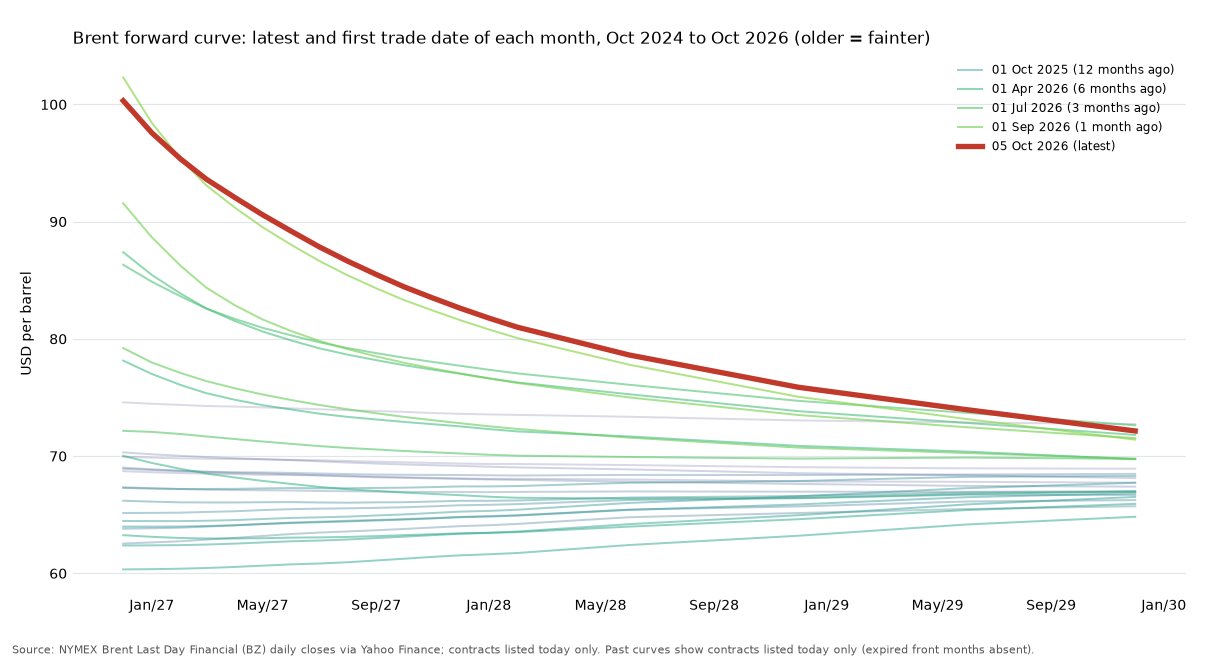
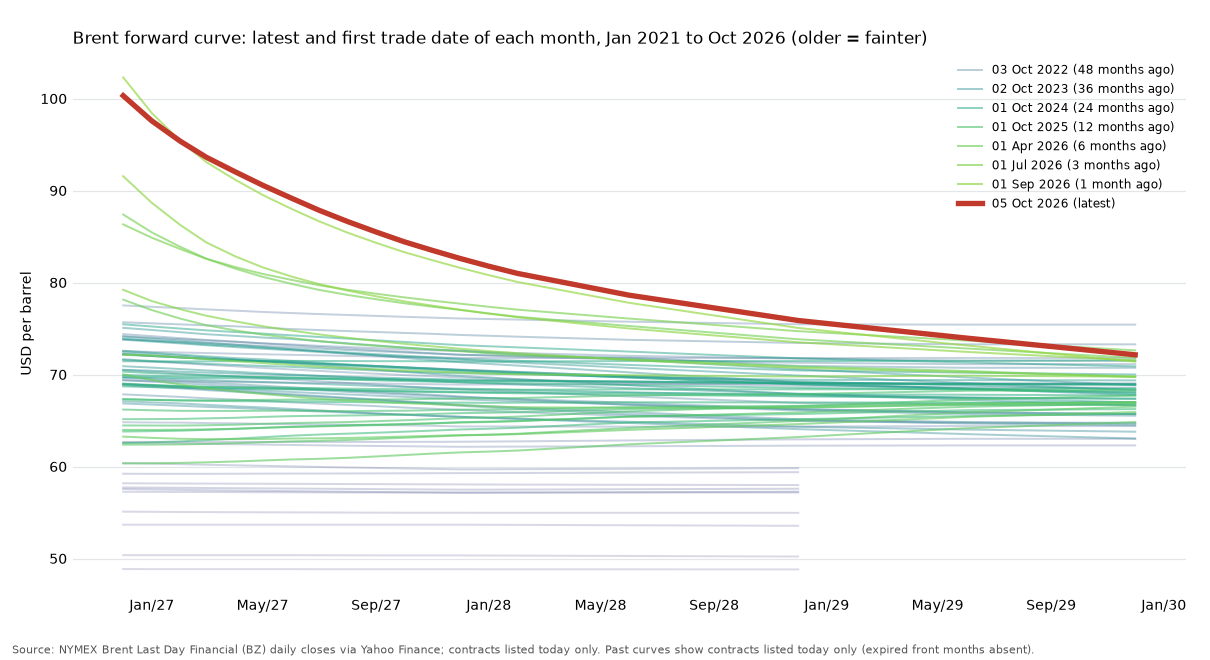
Brent forward curve GIF and history image: from Jan 2021 (drop 2018-2020)
Claude-Session: https://claude.ai/code/session_017JZ6NtiEGTPcCx8fG8R1Sb

diff --git a/americas/BRENT_FORWARD_CURVE_GIF.py b/americas/BRENT_FORWARD_CURVE_GIF.py
@@ -39,8 +39,10 @@ def main():
     sp.index = pd.to_datetime(sp.index)
     os.makedirs(OUTDIR, exist_ok=True)
     wk = cur.groupby(cur.index.to_period("W")).tail(1).index
-    frames = list(wk)
-    ymin, ymax = np.floor(cur.min().min() / 10) * 10 - 5, np.ceil(cur.max().max() / 10) * 10 + 5
+    START = pd.Timestamp("2021-01-01")   # owner: from 2021, not 2018-2020
+    frames = [d for d in wk if d >= START]
+    c21 = cur[cur.index >= START]
+    ymin, ymax = np.floor(c21.min().min() / 10) * 10 - 5, np.ceil(c21.max().max() / 10) * 10 + 5
     xl = (cur.columns.min() - pd.Timedelta(days=20), cur.columns.max() + pd.Timedelta(days=20))
     spread_col = "Dec 2026 less Dec 2027"
     n_c = cur.notna().sum(axis=1)
@@ -97,16 +99,16 @@ def main():
     fig.subplots_adjust(left=0.07, right=0.98, top=0.9, bottom=0.12)
     fig.savefig(os.path.join(OUTDIR, "brent_forward_curve.png"))
     plt.close(fig)
-    # PNG: history of curves, first trade date of each month (last 24 months), fading with age, latest bold
+    # PNG: history of curves, first trade date of each month (since Jan 2021), fading with age, latest bold
     last = cur.index.max()
-    win = cur[cur.index >= last - pd.DateOffset(months=24)]
+    win = cur[cur.index >= START]
     firsts = list(win.groupby(win.index.to_period("M")).head(1).index)
     firsts = [d for d in firsts if d != last]
     fig, ax = plt.subplots(figsize=(11, 6), dpi=110)
     style(ax)
     cmap = plt.get_cmap("viridis")
     lab = {}
-    for tgt, nm in ((1, "1 month ago"), (3, "3 months ago"), (6, "6 months ago"), (12, "12 months ago"), (24, "24 months ago")):
+    for tgt, nm in ((1, "1 month ago"), (3, "3 months ago"), (6, "6 months ago"), (12, "12 months ago"), (24, "24 months ago"), (36, "36 months ago"), (48, "48 months ago")):
         c_ = [d for d in firsts if d <= last - pd.DateOffset(months=tgt)]
         if c_:
             lab[c_[-1]] = nm

diff --git a/output/Python Scripts/BRENT_FORWARD_CURVE_GIF.py b/output/Python Scripts/BRENT_FORWARD_CURVE_GIF.py
@@ -39,8 +39,10 @@ def main():
     sp.index = pd.to_datetime(sp.index)
     os.makedirs(OUTDIR, exist_ok=True)
     wk = cur.groupby(cur.index.to_period("W")).tail(1).index
-    frames = list(wk)
-    ymin, ymax = np.floor(cur.min().min() / 10) * 10 - 5, np.ceil(cur.max().max() / 10) * 10 + 5
+    START = pd.Timestamp("2021-01-01")   # owner: from 2021, not 2018-2020
+    frames = [d for d in wk if d >= START]
+    c21 = cur[cur.index >= START]
+    ymin, ymax = np.floor(c21.min().min() / 10) * 10 - 5, np.ceil(c21.max().max() / 10) * 10 + 5
     xl = (cur.columns.min() - pd.Timedelta(days=20), cur.columns.max() + pd.Timedelta(days=20))
     spread_col = "Dec 2026 less Dec 2027"
     n_c = cur.notna().sum(axis=1)
@@ -97,16 +99,16 @@ def main():
     fig.subplots_adjust(left=0.07, right=0.98, top=0.9, bottom=0.12)
     fig.savefig(os.path.join(OUTDIR, "brent_forward_curve.png"))
     plt.close(fig)
-    # PNG: history of curves, first trade date of each month (last 24 months), fading with age, latest bold
+    # PNG: history of curves, first trade date of each month (since Jan 2021), fading with age, latest bold
     last = cur.index.max()
-    win = cur[cur.index >= last - pd.DateOffset(months=24)]
+    win = cur[cur.index >= START]
     firsts = list(win.groupby(win.index.to_period("M")).head(1).index)
     firsts = [d for d in firsts if d != last]
     fig, ax = plt.subplots(figsize=(11, 6), dpi=110)
     style(ax)
     cmap = plt.get_cmap("viridis")
     lab = {}
-    for tgt, nm in ((1, "1 month ago"), (3, "3 months ago"), (6, "6 months ago"), (12, "12 months ago"), (24, "24 months ago")):
+    for tgt, nm in ((1, "1 month ago"), (3, "3 months ago"), (6, "6 months ago"), (12, "12 months ago"), (24, "24 months ago"), (36, "36 months ago"), (48, "48 months ago")):
         c_ = [d for d in firsts if d <= last - pd.DateOffset(months=tgt)]
         if c_:
             lab[c_[-1]] = nm
